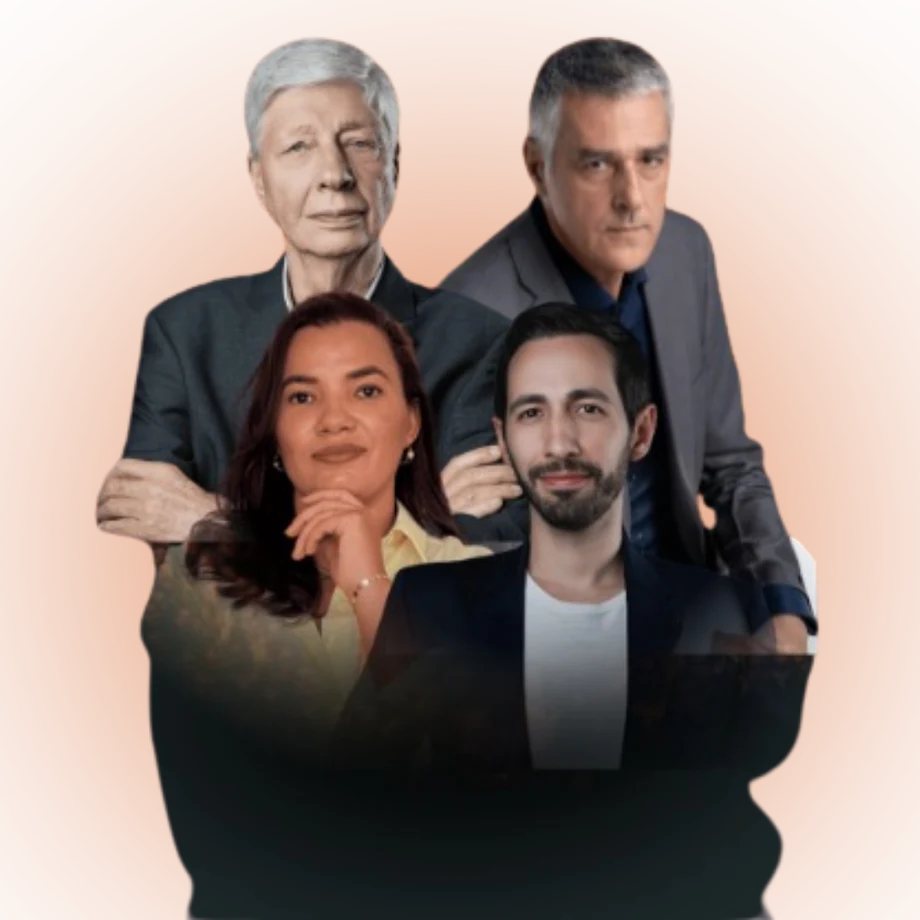
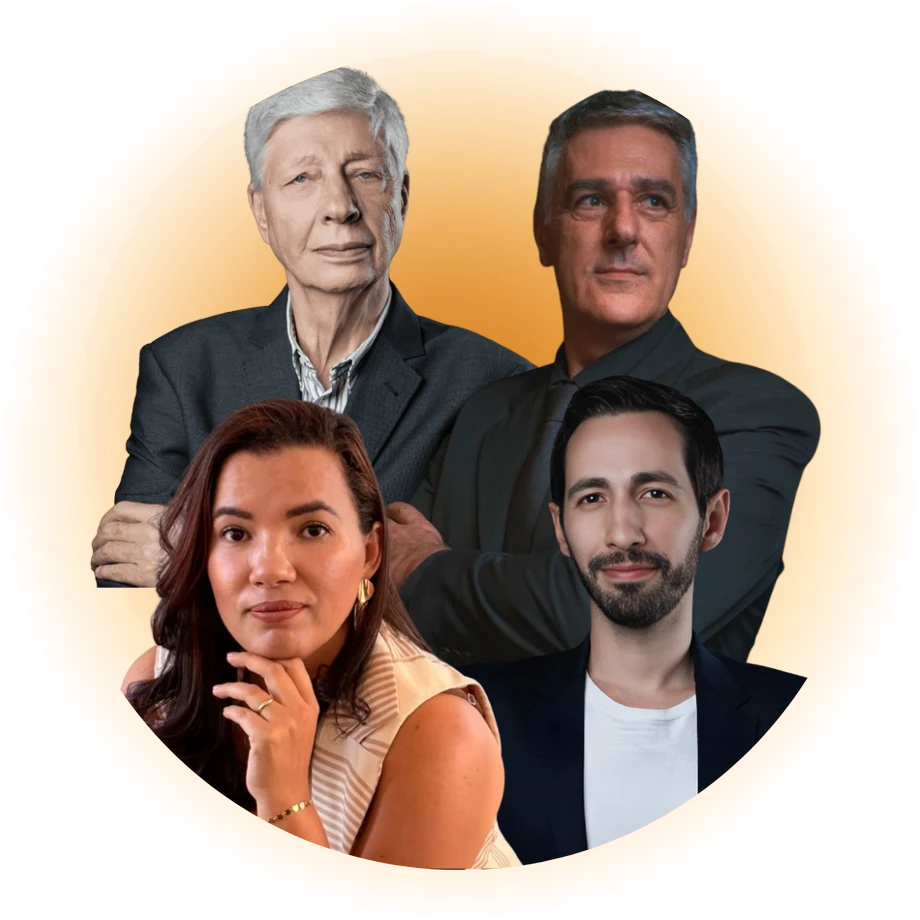
Atualiza hero com palestrantes e configura CTAs para checkout Hotmart

diff --git a/index.html b/index.html
@@ -33,7 +33,7 @@
           <a href="#especialistas">Especialistas</a>
           <a href="#investimento">Investimento</a>
           <a href="#faq">FAQ</a>
-          <a class="btn btn-small" href="#checkout">Quero Enriquecer</a>
+          <a class="btn btn-small" href="https://pay.hotmart.com/K104818226D?checkoutMode=10&amp;hotfeature=51&amp;_hi=eyJjaWQiOiIxNzczMTAxMDM1MDg2Nzc0NjQ2MTEzMjU4OTIzMTAwIiwiYmlkIjoiMTc3MzEwMTAzNTA4Njc3NDY0NjExMzI1ODkyMzEwMCIsInNpZCI6IjRlNGRhMDJkYzcyNzQ0ZTQ5NTIwZDQzYWY0NjU3YTJlIn0=.1773325927229" target="_blank" rel="noopener noreferrer">Quero Enriquecer</a>
         </nav>
       </div>
     </header>
@@ -78,7 +78,7 @@
               </div>
             </div>
             <div class="hero-cta-row">
-              <a class="btn" href="#checkout">QUERO ENRIQUECER</a>
+              <a class="btn" href="https://pay.hotmart.com/K104818226D?checkoutMode=10&amp;hotfeature=51&amp;_hi=eyJjaWQiOiIxNzczMTAxMDM1MDg2Nzc0NjQ2MTEzMjU4OTIzMTAwIiwiYmlkIjoiMTc3MzEwMTAzNTA4Njc3NDY0NjExMzI1ODkyMzEwMCIsInNpZCI6IjRlNGRhMDJkYzcyNzQ0ZTQ5NTIwZDQzYWY0NjU3YTJlIn0=.1773325927229" target="_blank" rel="noopener noreferrer">QUERO ENRIQUECER</a>
               <span class="micro-proof">Turma limitada | Evento presencial de 1 dia</span>
             </div>
             <div class="hero-trust">
@@ -89,7 +89,7 @@
           </div>
 
           <div class="hero-art">
-            <img src="assets/images/chess-hero.webp" alt="Mentores do CR Summit" />
+            <img src="assets/images/chess-hero.webp" alt="Palestrantes do CR Summit" />
           </div>
         </div>
       </section>
@@ -185,7 +185,7 @@
               <li>Mentalidade de investidor</li>
               <li>Estrutura societária e indicadores para escalar</li>
             </ul>
-            <a class="btn" href="#checkout">QUERO CONSTRUIR MINHA RIQUEZA</a>
+            <a class="btn" href="https://pay.hotmart.com/K104818226D?checkoutMode=10&amp;hotfeature=51&amp;_hi=eyJjaWQiOiIxNzczMTAxMDM1MDg2Nzc0NjQ2MTEzMjU4OTIzMTAwIiwiYmlkIjoiMTc3MzEwMTAzNTA4Njc3NDY0NjExMzI1ODkyMzEwMCIsInNpZCI6IjRlNGRhMDJkYzcyNzQ0ZTQ5NTIwZDQzYWY0NjU3YTJlIn0=.1773325927229" target="_blank" rel="noopener noreferrer">QUERO CONSTRUIR MINHA RIQUEZA</a>
           </div>
 
           <aside class="highlight-box">
@@ -253,8 +253,8 @@
             </article>
 
             <article class="speaker-card">
-              <img src="assets/images/speaker-raphael.webp" alt="Raphael Mendes" />
-              <h3>Raphael Mendes</h3>
+              <img src="assets/images/speaker-raphael.webp" alt="Rafael Mendes" />
+              <h3>Rafael Mendes</h3>
               <p>Gestão de obra estratégica: materiais, planejamento e cronograma físico-financeiro.</p>
             </article>
           </div>
@@ -305,7 +305,7 @@
           </div>
 
           <div class="price-cta" id="checkout">
-            <a class="btn btn-strong" href="https://SEU-CHECKOUT-AQUI" target="_blank" rel="noopener noreferrer">
+            <a class="btn btn-strong" href="https://pay.hotmart.com/K104818226D?checkoutMode=10&amp;hotfeature=51&amp;_hi=eyJjaWQiOiIxNzczMTAxMDM1MDg2Nzc0NjQ2MTEzMjU4OTIzMTAwIiwiYmlkIjoiMTc3MzEwMTAzNTA4Njc3NDY0NjExMzI1ODkyMzEwMCIsInNpZCI6IjRlNGRhMDJkYzcyNzQ0ZTQ5NTIwZDQzYWY0NjU3YTJlIn0=.1773325927229" target="_blank" rel="noopener noreferrer">
               GARANTIR MINHA VAGA AGORA
             </a>
             <p>Checkout seguro. Após o pagamento, você recebe acesso e orientações do evento.</p>
@@ -361,7 +361,7 @@
           <p>
             Entre no CR Summit e aprenda a construir com visão de investidor, estrutura de negócio e foco em valorização.
           </p>
-          <a class="btn" href="#checkout">QUERO CONSTRUIR MINHA RIQUEZA</a>
+          <a class="btn" href="https://pay.hotmart.com/K104818226D?checkoutMode=10&amp;hotfeature=51&amp;_hi=eyJjaWQiOiIxNzczMTAxMDM1MDg2Nzc0NjQ2MTEzMjU4OTIzMTAwIiwiYmlkIjoiMTc3MzEwMTAzNTA4Njc3NDY0NjExMzI1ODkyMzEwMCIsInNpZCI6IjRlNGRhMDJkYzcyNzQ0ZTQ5NTIwZDQzYWY0NjU3YTJlIn0=.1773325927229" target="_blank" rel="noopener noreferrer">QUERO CONSTRUIR MINHA RIQUEZA</a>
         </div>
       </section>
     </main>
